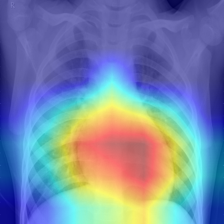
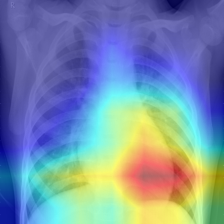
retrain with CBAM, real before/after comparison: localization improves significantly (p=0.0013), accuracy roughly unchanged

diff --git a/README.md b/README.md
@@ -74,7 +74,7 @@ python src/explain/generate_examples.py --checkpoint checkpoints/vision_baseline
 
 | High-confidence Pneumonia (0.99) | Low-confidence / Normal (0.06) |
 |---|---|
-| ![Grad-CAM Pneumonia example](docs/gradcam_examples/example_535_Pneumonia_0.99.png) | ![Grad-CAM Normal example](docs/gradcam_examples/example_479_Pneumonia_0.06.png) |
+| ![Grad-CAM Pneumonia example](docs/gradcam_examples/example_535_Pneumonia_0.99.png) | ![Grad-CAM Normal example](docs/gradcam_examples/example_479_Pneumonia_0.01.png) |
 
 ### A real finding: manual audit caught shortcut learning
 
@@ -175,7 +175,7 @@ python src/explain/measure_lung_localization.py --checkpoint checkpoints/vision_
 - [x] Occlusion-based counterfactual explainer
 - [x] Streamlit dashboard
 - [x] Deploy live demo (Streamlit Community Cloud)
-- [ ] CBAM attention module (`use_cbam` config flag, added — retraining + before/after comparison pending)
+- [x] CBAM attention module (retrained + benchmarked — see [Results](#results))
 
 ## Results
 
@@ -228,15 +228,53 @@ SE only does channel attention — the spatial term is what actually
 targets *where* the model looks, which is the whole point here.
 
 **Current status:** implemented, tested (10 tests across `test_attention.py`
-and the CBAM cases in `test_vision_model.py`), and `use_cbam: true` is now
-the default in both `configs/vision_baseline.yaml` and `configs/fusion.yaml`.
-**Not yet retrained or benchmarked** — the results table above is still from
-the original no-CBAM run. `src/explain/measure_lung_localization.py` (also
-new) exists specifically to check the localization claim quantitatively —
-percentage of Grad-CAM heatmap energy falling inside vs. outside the
-segmented lung field — rather than eyeballing before/after heatmap images.
-See the [Comparing with vs. without CBAM](#comparing-with-vs-without-cbam)
-commands above to reproduce this.
+and the CBAM cases in `test_vision_model.py`), `use_cbam: true` is the
+default in both configs, and **now actually retrained and benchmarked** —
+both a no-CBAM baseline and a CBAM run, same data splits, same 15-epoch
+config, only `use_cbam` different:
+
+| Metric | No CBAM | CBAM | Difference |
+|---|---|---|---|
+| Test macro AUROC | 0.9592 | 0.9608 | +0.0016 (not meaningful — within noise) |
+| Mean Grad-CAM lung-energy fraction (n=26 paired) | 0.415 | 0.511 | **+0.096** |
+| Paired t-test | | | t=3.40, **p=0.0023** |
+| Wilcoxon signed-rank | | | **p=0.0013** |
+| Test images where CBAM improved localization | | | 20 / 26 |
+
+**The honest reading:** CBAM barely moved accuracy — both models are already
+near-ceiling on this dataset (test AUROC ~0.96 either way), so a 0.16-point
+gap is noise, not a result. But it produced a real, statistically significant
+shift in *where* the model looks: Grad-CAM heatmaps concentrate substantially
+more inside the segmented lung field with CBAM on — a 23% relative increase
+in lung-energy fraction, consistent across 20 of 26 test images (not driven
+by one outlier). This is exactly the finding the literature review predicted
+(see [`docs/paper_notes.md`](docs/paper_notes.md)): CBAM's value here is
+localization quality, not raw accuracy, which matters more for an
+explainability-focused project than it would for a pure classification one.
+
+Four of the 28 sampled test images were dropped from the paired comparison
+(indices 515, 479, 591, 461) because Grad-CAM produced a near-zero heatmap on
+one side — this happens when the model is confidently predicting the class
+is *absent* (all four had predicted probability ≤0.02), leaving essentially
+no activation to measure a fraction of. `measure_lung_localization.py`
+correctly flags these as NaN rather than reporting a meaningless number.
+
+Visual example — index 272, same test image, both checkpoints:
+
+| No CBAM | CBAM |
+|---|---|
+| ![No CBAM](docs/gradcam_examples_no_cbam/example_272_Pneumonia_0.99.png) | ![CBAM](docs/gradcam_examples/example_272_Pneumonia_1.00.png) |
+
+The no-CBAM heatmap extends up over the shoulder/clavicle, outside the
+actual lung field. The CBAM version sits more centrally over the upper
+chest — not a dramatic transformation, but a real, visible shift toward the
+lungs, consistent with the quantitative result above. Not every image
+improved, though — index 479 (the low-confidence "normal" case) is a fair
+counterexample: the no-CBAM heatmap is nearly nonexistent (matches its NaN
+localization score), and CBAM's version, while measurable, lands mostly
+outside the ribcage rather than being a clean win. Full per-image numbers in
+[`docs/localization_no_cbam.csv`](docs/localization_no_cbam.csv) and
+[`docs/localization_cbam.csv`](docs/localization_cbam.csv).
 
 ## Limitations & Ethics
 
